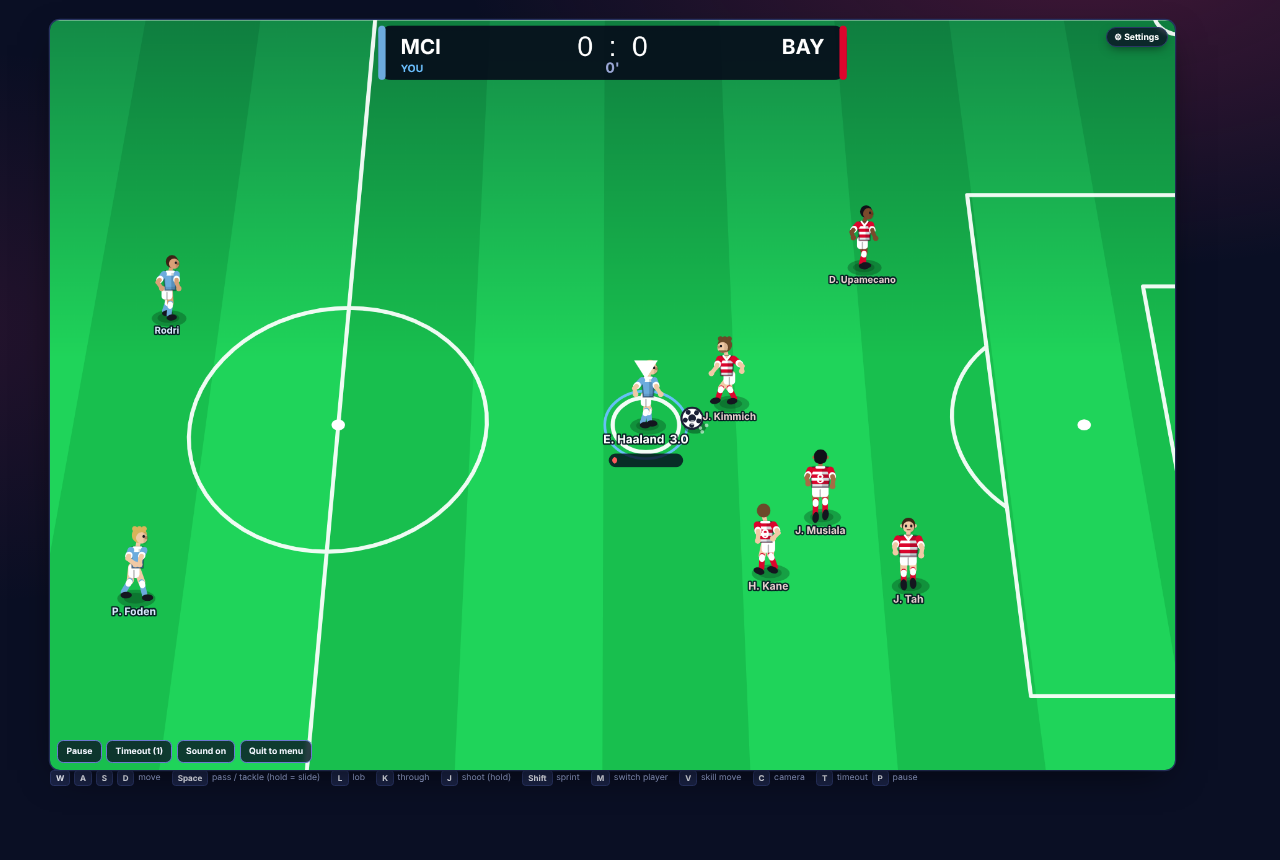
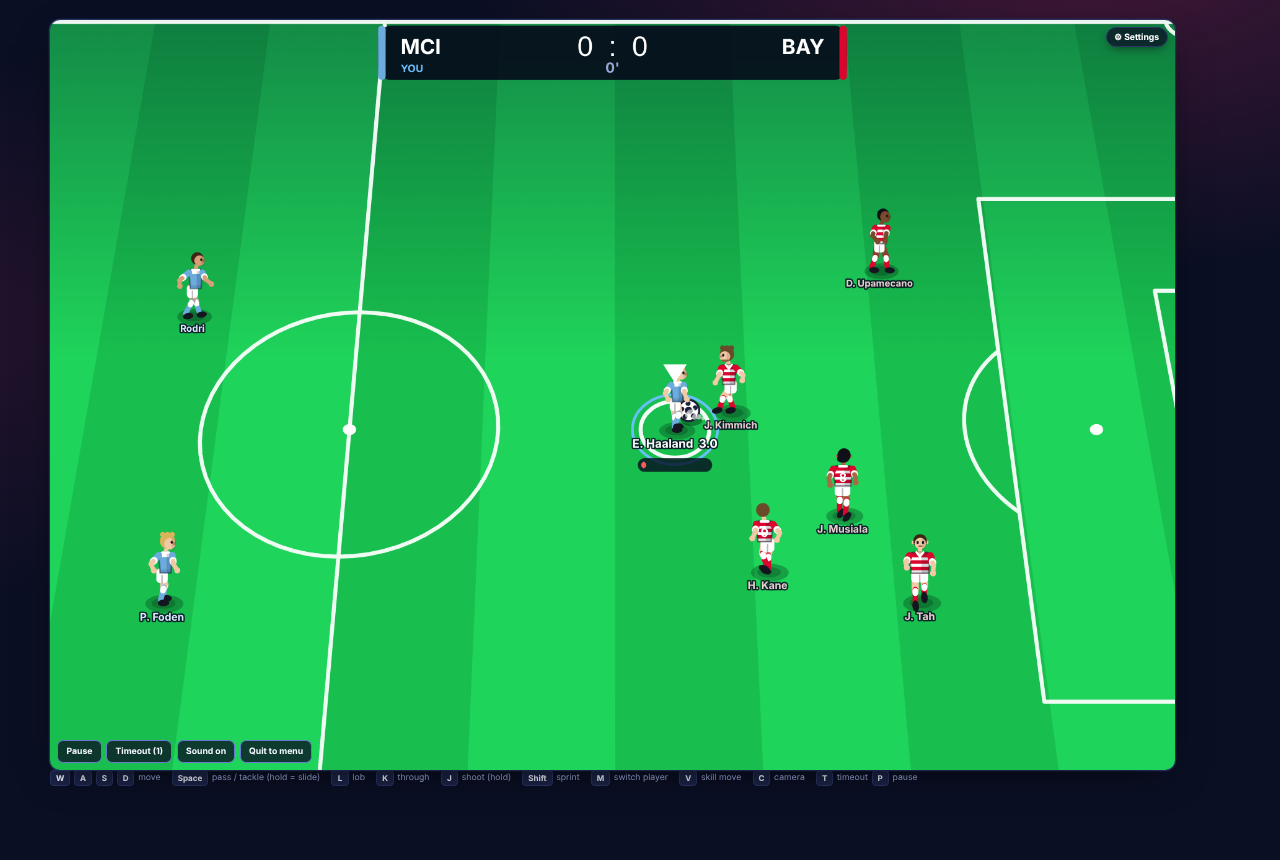
Dribbling: keep touches but ball stays within reach, no loose balls
Claude-Session: https://claude.ai/code/session_01H6STefmT12yEjDpngFmcAp

diff --git a/index.html b/index.html
@@ -1758,14 +1758,14 @@ function dribbleStep(o,dt,live){
  if(o.tcd<=0&&dd<PR+BR+4){
   // a touch: the foot meets the ball and knocks it where the player is heading
   const rt=o.rt||3,turn=o.turn||0,ang=Math.atan2(o.vy,o.vx);
-  let hz=(.02+(sp>240?.05:0)+(turn>7?.12:0))*(1.35-.17*rt)*(1+(o.fat||0))*(o.ctrl?.6:1);
-  let vr=(70+.9*sp)*(sp>150?1.25:1);const heavy=Math.random()<hz;if(heavy)vr*=rnd(1.7,2.6);
-  const err=rnd(-1,1)*(.05+.04*Math.max(0,4-rt)+Math.min(.25,turn*.012))*(heavy?2:1);
+  let vr=(34+.5*sp);
+  const err=rnd(-1,1)*(.04+.03*Math.max(0,4-rt)+Math.min(.2,turn*.01));
   b.vx=o.vx+Math.cos(ang+err)*vr;b.vy=o.vy+Math.sin(ang+err)*vr;
   o.tcd=.14;o.kickAnim=.18;b.spin+=rnd(-2,2);
  }
  // the ball rolls on its own between touches
- const f=Math.exp(-3.6*dt);b.vx*=f;b.vy*=f;b.x+=b.vx*dt;b.y+=b.vy*dt;
+ const f=Math.exp(-5*dt);b.vx*=f;b.vy*=f;b.x+=b.vx*dt;b.y+=b.vy*dt;
+ {const mx=PR+BR+20,ex=b.x-o.x,ey=b.y-o.y,ed=Math.hypot(ex,ey);if(ed>mx){b.x=o.x+ex/ed*mx;b.y=o.y+ey/ed*mx;const vn=(b.vx*ex+b.vy*ey)/ed;if(vn>0){b.vx-=ex/ed*vn;b.vy-=ey/ed*vn}}}
  // out of play / too far away: possession is lost and the ball is up for grabs
  if(b.x<-2||b.x>PW+2||b.y<-2||b.y>PH+2||dd>loseR){b.owner=null;o.kickCD=.2;o.dr=null;return false}
  // a defender gets a foot to a ball that has run away from the carrier
